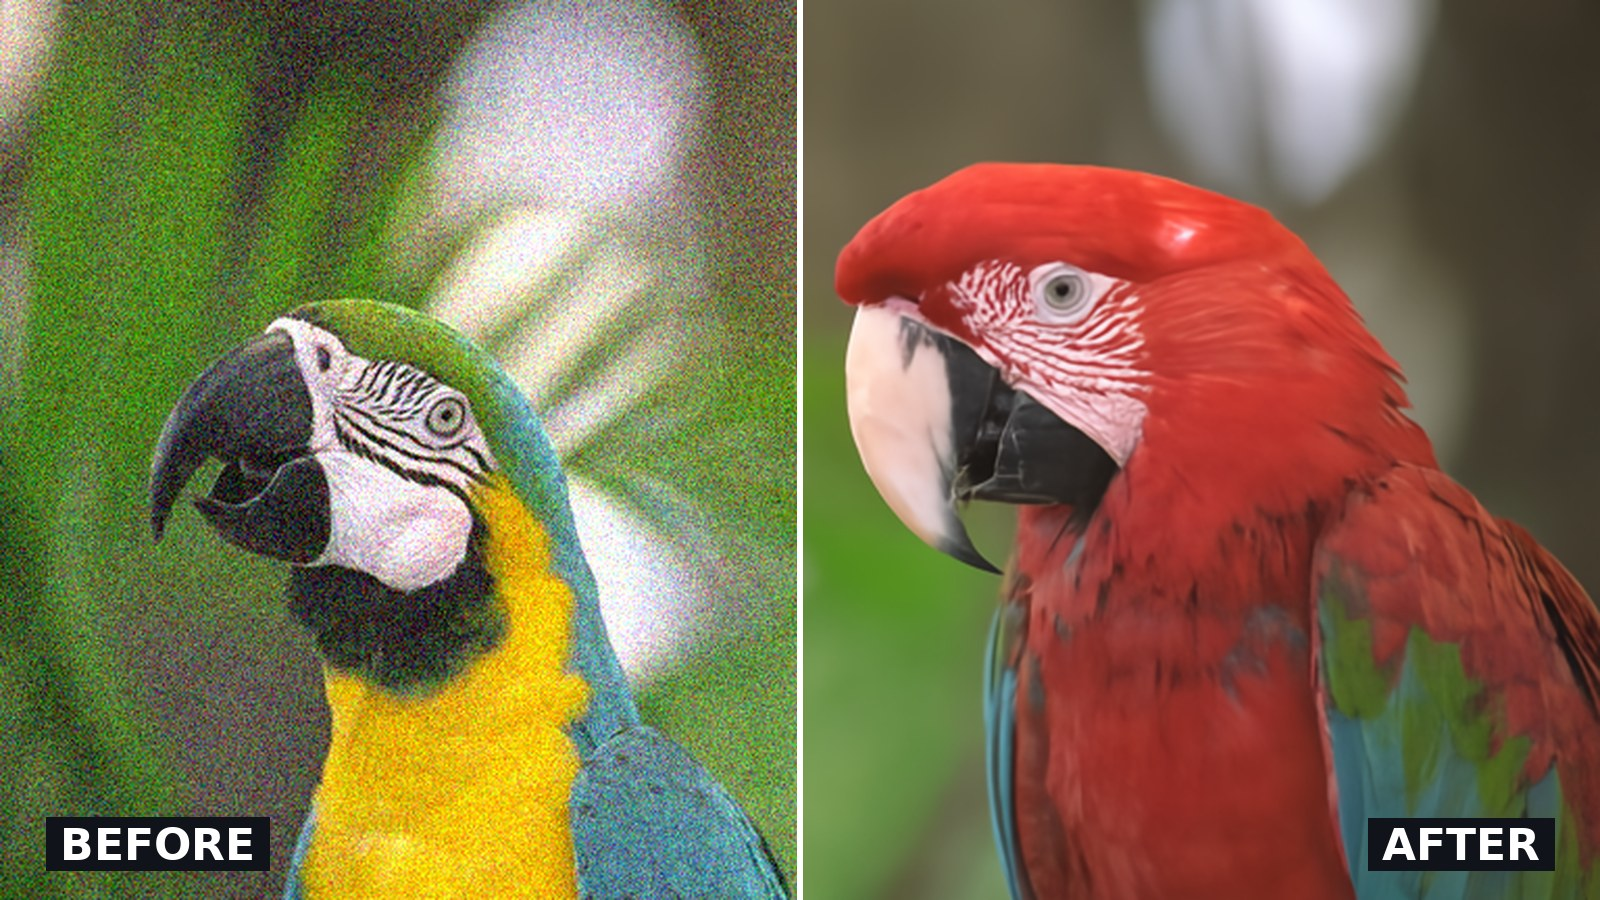
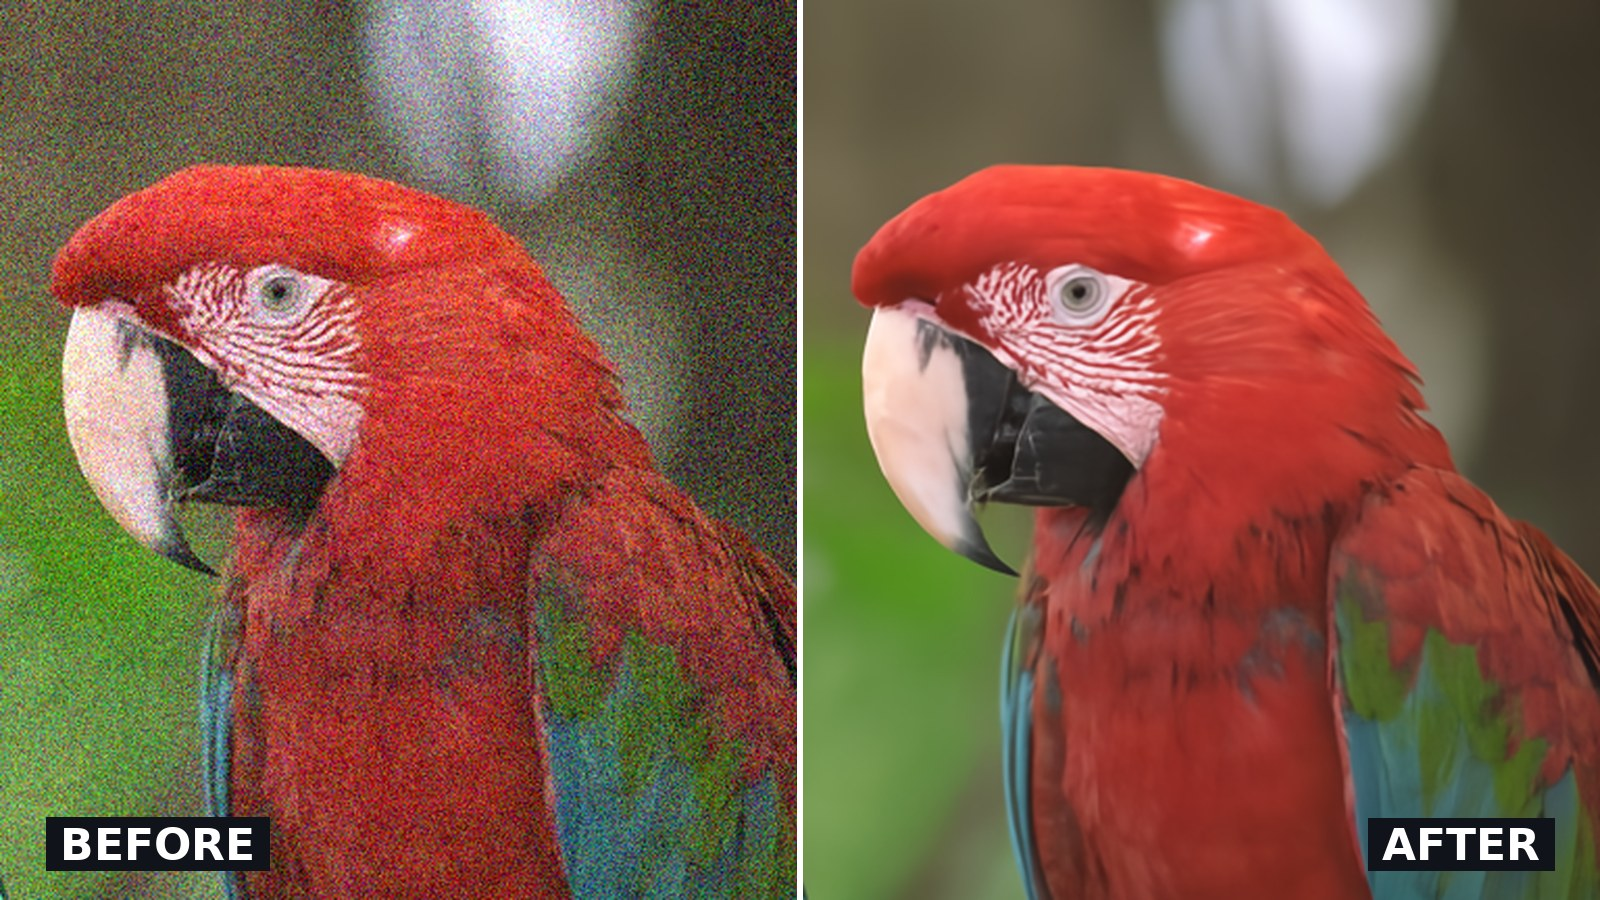
Photo enhancement covers: show the same parrot before and after
kodim23 has two parrots side by side. The old cover split the whole frame,
so the noisy half showed one bird and the denoised half another one.
The cover now shows the same red macaw twice: noisy on the left,
SCUNet on the right.

Claude-Session: https://claude.ai/code/session_01CpAHvchLuy34vcCADnc47q

diff --git a/experiments/photo-enhance/src/figs.py b/experiments/photo-enhance/src/figs.py
@@ -125,12 +125,13 @@ for lang in ["ru", "en"]:
     titles = [t["noisy"], t["nlm"], t["scu"], t["gt"]]
     save(strip(list(zip(titles, subs, ims)), 292, 292, gap=10), f"fig4-noise-{lang}")
 
-    # cover 1600x900: parrots, left noisy / right SCUNet
+    # cover 1600x900: the SAME red macaw twice, left noisy / right SCUNet
+    # (kodim23 has two parrots side by side; splitting the whole frame showed a different bird on each side)
     k = "kodim23"
-    a = load(f"{INP}/noise_{k}.png"); b = load(f"{OUT}/scunet/noise_{k}.png")
-    box = (0, 31, 768, 463)  # 16:9 band
-    a, b = a.crop(box).resize((1600, 900), Image.LANCZOS), b.crop(box).resize((1600, 900), Image.LANCZOS)
-    cov = a.copy(); cov.paste(b.crop((800, 0, 1600, 900)), (800, 0))
+    box = (376, 30, 760, 462)  # 384x432 region -> two 800x900 panels
+    a = load(f"{INP}/noise_{k}.png").crop(box).resize((800, 900), Image.LANCZOS)
+    b = load(f"{OUT}/scunet/noise_{k}.png").crop(box).resize((800, 900), Image.LANCZOS)
+    cov = Image.new("RGB", (1600, 900), BG); cov.paste(a, (0, 0)); cov.paste(b, (800, 0))
     d = ImageDraw.Draw(cov)
     d.rectangle([797, 0, 802, 900], fill=(255, 255, 255))
     fb = ImageFont.truetype(FB, 44)
